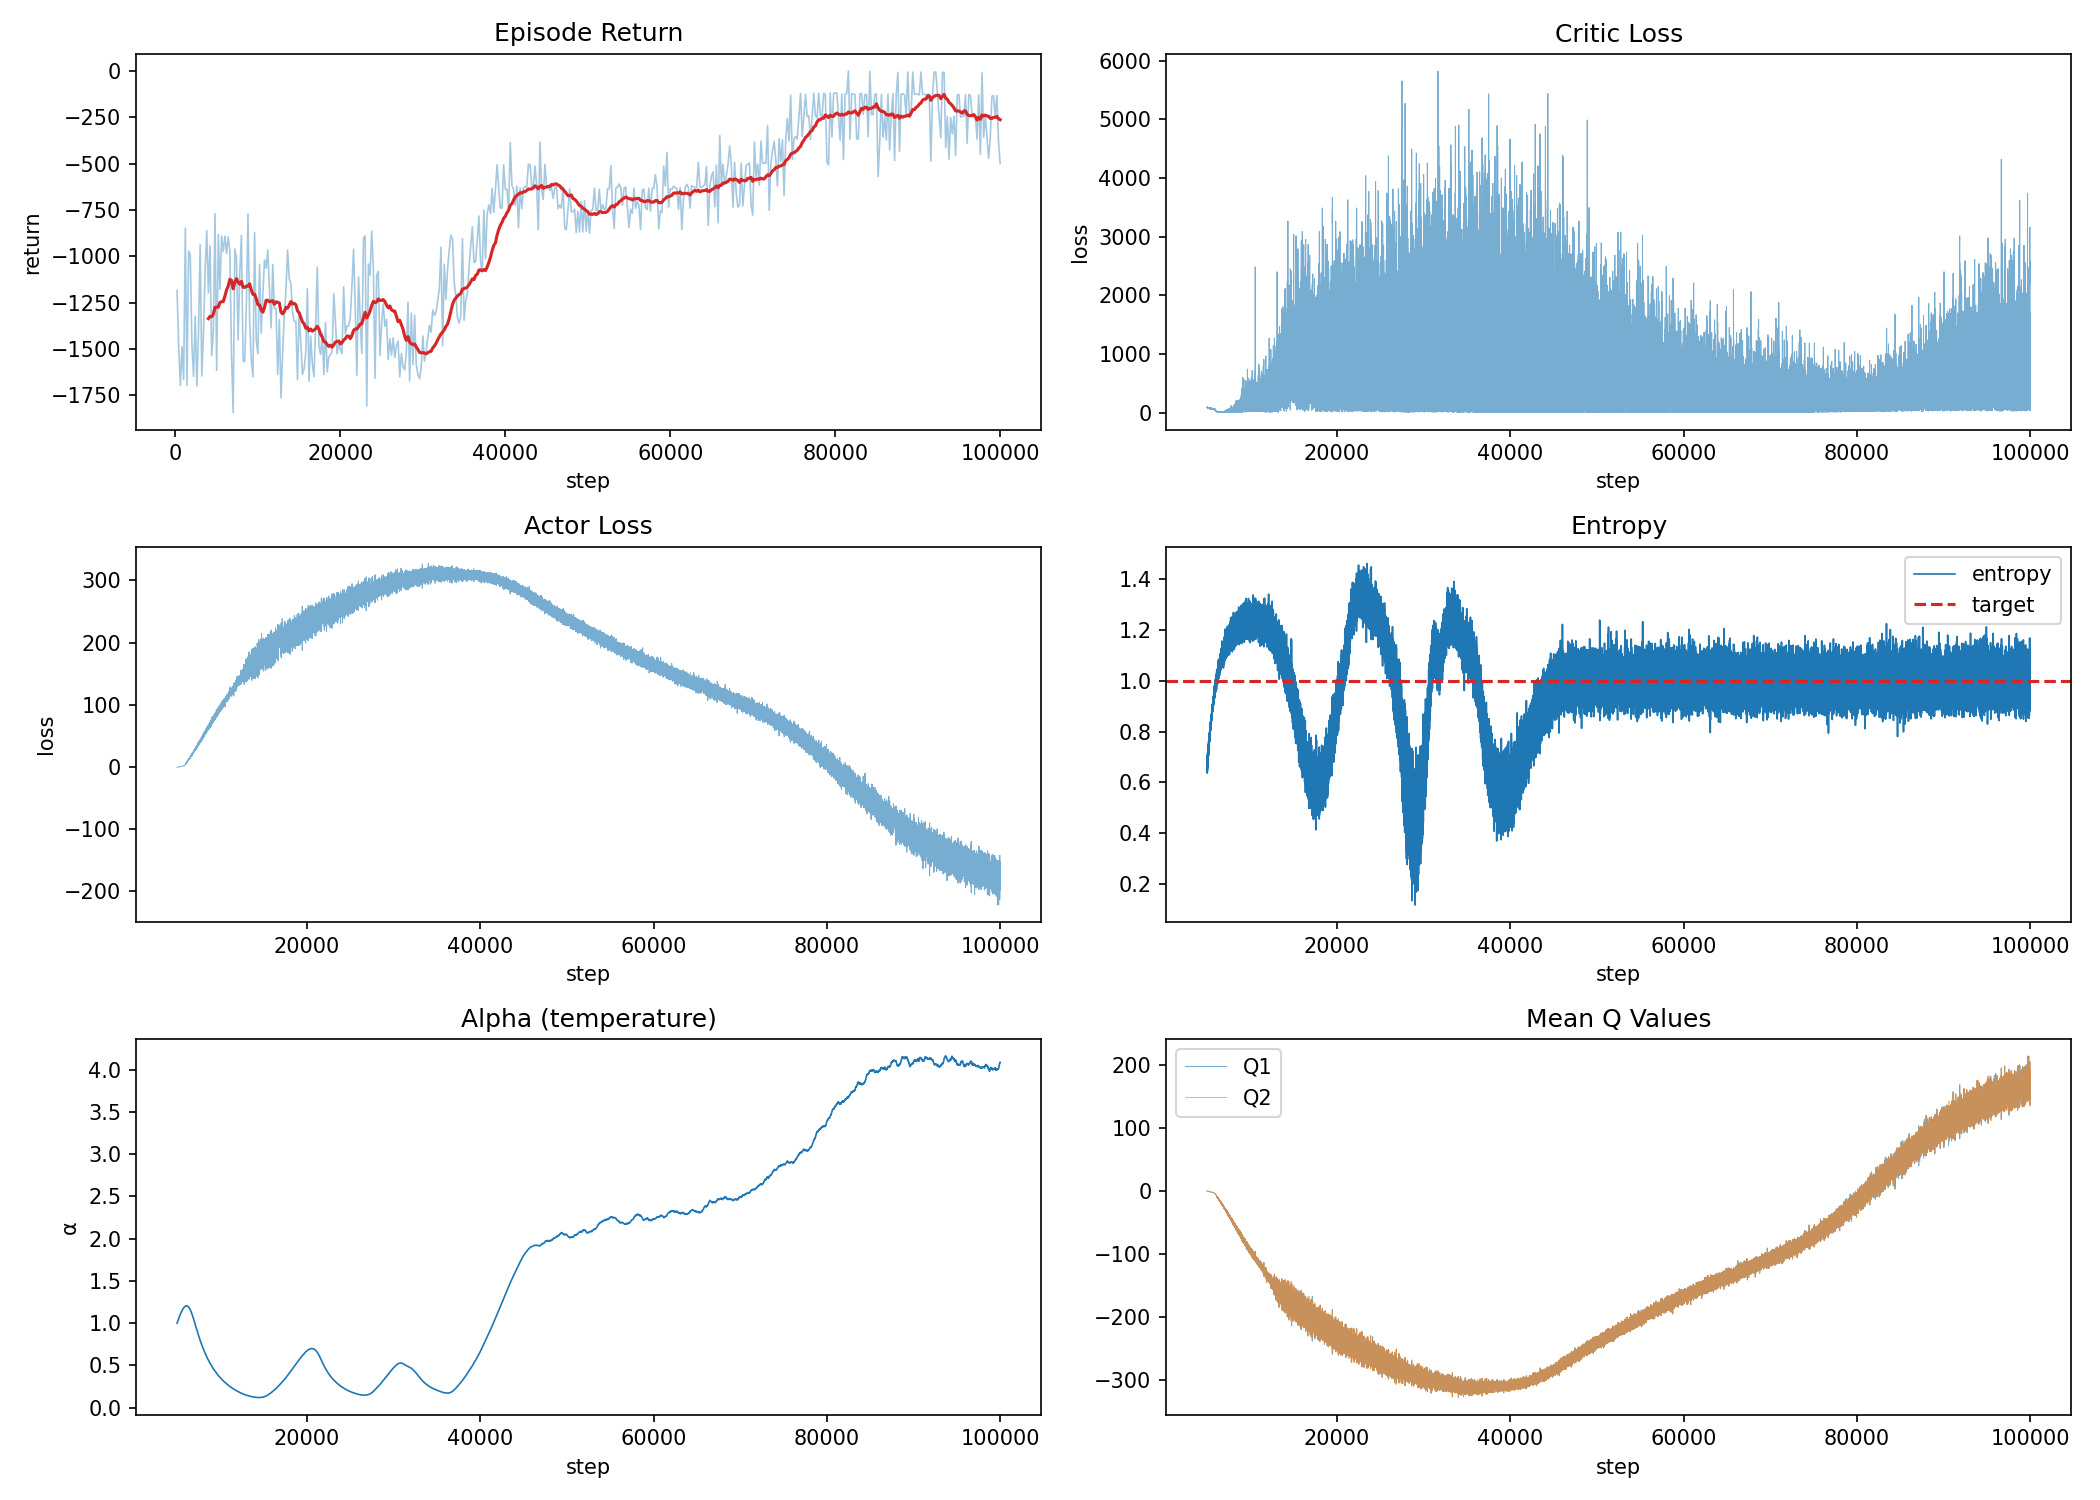
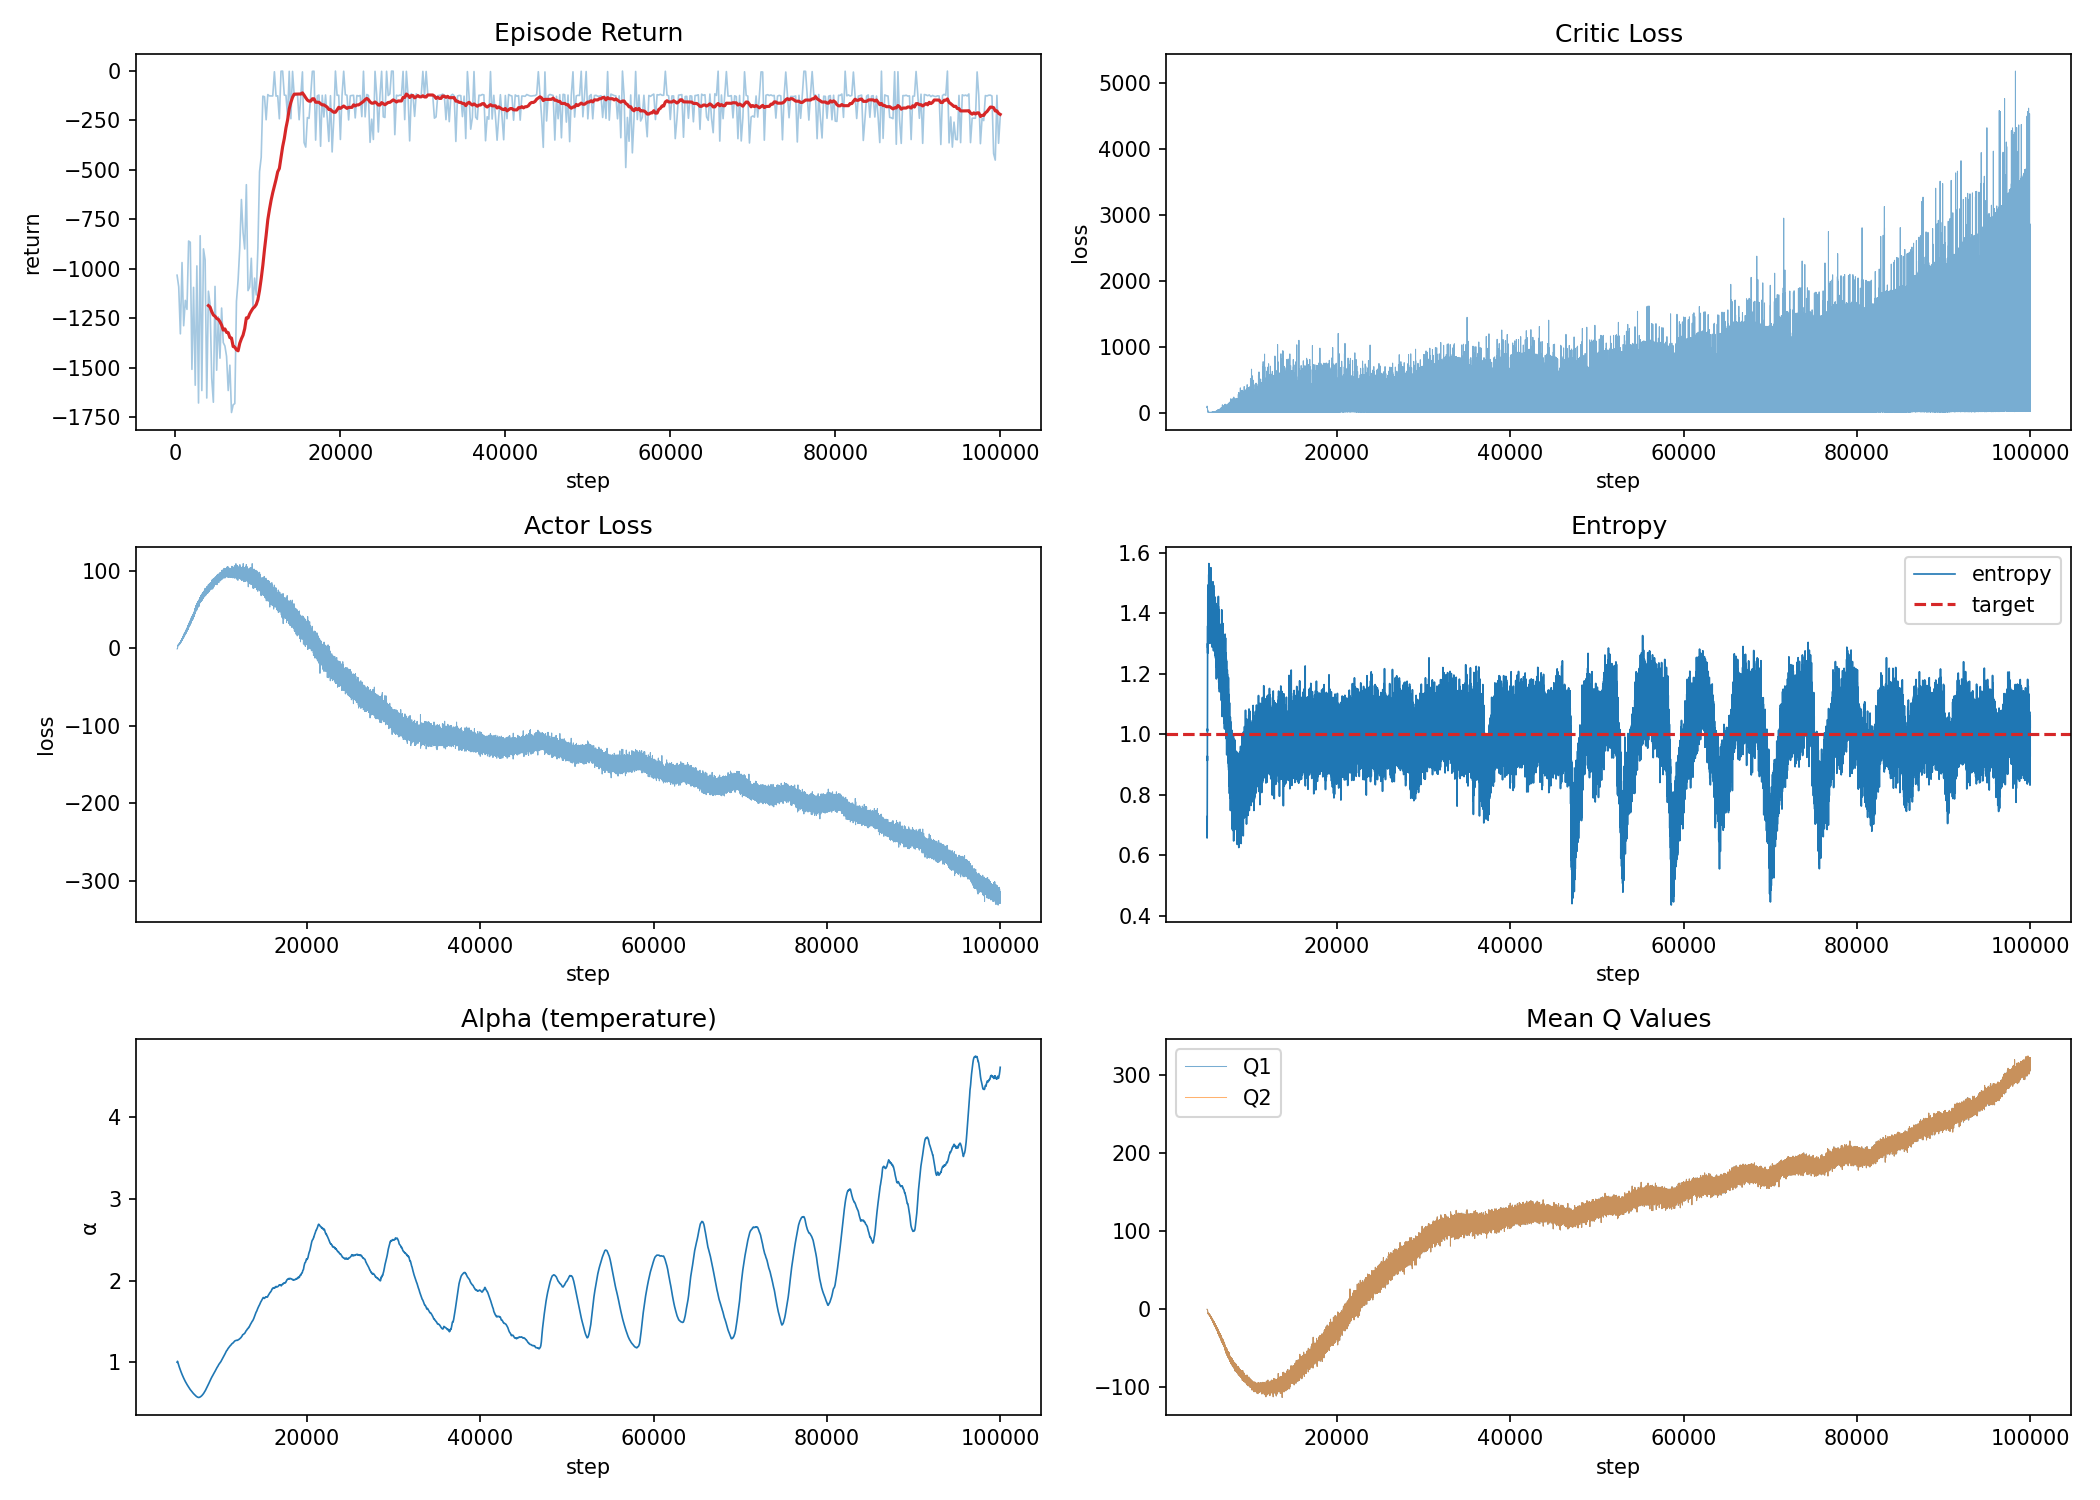
feat: Adam optimizer, smaller buffer and buffer fix

diff --git a/sac_assignment_jax.py b/sac_assignment_jax.py
@@ -22,11 +22,13 @@ Run individual sections with:
     python sac_assignment_jax.py --section all # full training loop
 """
 
+import functools
+
 import jax
 import jax.numpy as jnp
 import numpy as np
 import optax
-from typing import Tuple, Dict, Optional
+from typing import Any, Tuple, Dict, Optional
 import argparse
 
 from collections import deque
@@ -36,8 +38,6 @@ from collections import deque
 #   key = jax.random.PRNGKey(42)
 #   key, subkey = jax.random.split(key)
 #   samples = jax.random.normal(subkey, shape=(batch, dim))
-
-ROOT_KEY = jax.random.PRNGKey(42)
 
 
 # ==============================================================================
@@ -116,6 +116,7 @@ def policy_forward(
     return means, log_std
 
 
+@jax.jit
 def policy_sample(
     params: Dict,
     state: jax.Array,
@@ -391,34 +392,35 @@ def critic_loss_fn(
 
 
 
+@functools.partial(jax.jit, static_argnums=(8,))
 def critic_update(
     critic_params: Dict,
     target_critic_params: Dict,
     policy_params: Dict,
+    critic_opt_state,
     batch: Dict[str, jax.Array],
-    alpha: float,
-    gamma: float = 0.99,
-    lr: float = 3e-4,
-    key: jax.Array = jax.random.PRNGKey(0),
-) -> Tuple[Dict, Dict[str, float]]:
+    alpha: jax.Array,
+    gamma: float,
+    key: jax.Array,
+    optimizer: optax.GradientTransformation,
+) -> Tuple[Dict, Any, Dict[str, jax.Array]]:
     """
-    Compute gradients of critic_loss_fn wrt critic_params and apply SGD.
-
-    Use jax.value_and_grad(critic_loss_fn) — differentiate wrt first argument.
-    Update with: new_params = jax.tree.map(lambda p, g: p - lr * g, params, grads)
+    Compute gradients of critic_loss_fn wrt critic_params and apply an Adam step.
 
     Returns:
         new_critic_params: updated critic weights
+        new_critic_opt_state: updated optimizer state
         info dict with 'critic_loss', 'q1_mean', 'q2_mean'
     """
-    loss, grads = jax.value_and_grad(critic_loss_fn)(critic_params, target_critic_params, policy_params, batch, alpha, gamma, key)
-    #grads = jax.tree.map(lambda g: jnp.clip(g, -1.0, 1.0), grads)
-
-    new_params = jax.tree.map(lambda p, g: p - lr*g, critic_params, grads)
+    loss, grads = jax.value_and_grad(critic_loss_fn)(
+        critic_params, target_critic_params, policy_params, batch, alpha, gamma, key
+    )
+    updates, new_opt_state = optimizer.update(grads, critic_opt_state)
+    new_params = optax.apply_updates(critic_params, updates)
 
     q1, q2 = critic_forward(new_params, batch['states'], batch['actions'])
 
-    return new_params, {'critic_loss': loss, 'q1_mean': jnp.mean(q1), 'q2_mean': jnp.mean(q2)}
+    return new_params, new_opt_state, {'critic_loss': loss, 'q1_mean': jnp.mean(q1), 'q2_mean': jnp.mean(q2)}
 
 
 def actor_loss_fn(
@@ -434,26 +436,31 @@ def actor_loss_fn(
     return jnp.mean(alpha * log_probs - min_q), log_probs
 
 
+@functools.partial(jax.jit, static_argnums=(6,))
 def actor_update(
     policy_params: Dict,
     critic_params: Dict,
+    policy_opt_state,
     batch: Dict[str, jax.Array],
-    alpha: float,
-    lr: float = 3e-4,
-    key: jax.Array = jax.random.PRNGKey(0),
-) -> Tuple[Dict, jax.Array, Dict[str, float]]:
+    alpha: jax.Array,
+    key: jax.Array,
+    optimizer: optax.GradientTransformation,
+) -> Tuple[Dict, Any, jax.Array, Dict[str, jax.Array]]:
     """
-    Compute gradients of actor_loss_fn wrt policy_params and apply SGD.
+    Compute gradients of actor_loss_fn wrt policy_params and apply an Adam step.
 
     Returns:
-        new_policy_params: updated policy weights
-        log_probs:         (batch,) — needed for alpha update
+        new_policy_params:    updated policy weights
+        new_policy_opt_state: updated optimizer state
+        log_probs:            (batch,) — needed for alpha update
         info dict with 'actor_loss', 'entropy'
     """
-    (loss, log_probs), grads = jax.value_and_grad(actor_loss_fn, has_aux=True)(policy_params, critic_params, batch, alpha, key)
-    #grads = jax.tree.map(lambda g: jnp.clip(g, -1.0, 1.0), grads)
-    new_params = jax.tree.map(lambda p, g: p - lr*g, policy_params, grads)
-    return new_params, log_probs, {'actor_loss': loss, 'entropy': -jnp.mean(log_probs)}
+    (loss, log_probs), grads = jax.value_and_grad(actor_loss_fn, has_aux=True)(
+        policy_params, critic_params, batch, alpha, key
+    )
+    updates, new_opt_state = optimizer.update(grads, policy_opt_state)
+    new_params = optax.apply_updates(policy_params, updates)
+    return new_params, new_opt_state, log_probs, {'actor_loss': loss, 'entropy': -jnp.mean(log_probs)}
 
 
 '''def alpha_update(
@@ -493,18 +500,20 @@ def actor_update(
 
     return new_log_alpha, new_alpha, {'alpha_loss': alpha_loss, 'alpha': new_alpha}'''
 
+@functools.partial(jax.jit, static_argnums=(4,))
 def alpha_update(log_alpha, alpha_opt_state, log_probs, target_entropy, alpha_optimizer):
     def alpha_loss_fn(log_alpha):
-        return -log_alpha * (log_probs + target_entropy).mean()
+        return -log_alpha * jax.lax.stop_gradient(log_probs + target_entropy).mean()
 
     loss, grad = jax.value_and_grad(alpha_loss_fn)(log_alpha)
     updates, new_opt_state = alpha_optimizer.update(grad, alpha_opt_state)
     new_log_alpha = optax.apply_updates(log_alpha, updates)
-    new_alpha = float(jnp.exp(new_log_alpha))
+    new_alpha = jnp.exp(new_log_alpha)
 
-    return new_log_alpha, new_opt_state, new_alpha, {'alpha_loss': float(loss), 'alpha': new_alpha}
+    return new_log_alpha, new_opt_state, new_alpha, {'alpha_loss': loss, 'alpha': new_alpha}
 
 
+@jax.jit
 def soft_update(
     critic_params: Dict,
     target_critic_params: Dict,
@@ -591,20 +600,24 @@ def run_sanity_checks():
     print("=" * 60)
     log_alpha = jnp.array(0.0)
     target_entropy = float(action_dim)   # +2.0: entropy above this → decrease alpha
+    test_alpha_opt = optax.adam(3e-4)
+    test_alpha_state = test_alpha_opt.init(log_alpha)
 
     # Case 1: entropy too low (log_probs close to 0) → alpha should increase
     low_entropy_log_probs = jnp.full(batch_size, -0.1)   # entropy=0.1 < target=2.0
-    new_log_alpha, new_alpha, _ = alpha_update(log_alpha, low_entropy_log_probs, target_entropy)
-    assert new_alpha > float(jnp.exp(log_alpha)), \
-        f"Alpha should increase when entropy too low. Got {new_alpha:.4f} vs {float(jnp.exp(log_alpha)):.4f}"
-    print(f"  low entropy  -> alpha {float(jnp.exp(log_alpha)):.4f} -> {new_alpha:.4f}  (should increase)")
+    new_log_alpha, _, new_alpha, _ = alpha_update(
+        log_alpha, test_alpha_state, low_entropy_log_probs, target_entropy, test_alpha_opt)
+    assert float(new_alpha) > float(jnp.exp(log_alpha)), \
+        f"Alpha should increase when entropy too low. Got {float(new_alpha):.4f} vs {float(jnp.exp(log_alpha)):.4f}"
+    print(f"  low entropy  -> alpha {float(jnp.exp(log_alpha)):.4f} -> {float(new_alpha):.4f}  (should increase)")
 
     # Case 2: entropy too high (log_probs very negative) → alpha should decrease
     high_entropy_log_probs = jnp.full(batch_size, -10.0)  # entropy=10 > target=2.0
-    new_log_alpha, new_alpha, _ = alpha_update(log_alpha, high_entropy_log_probs, target_entropy)
-    assert new_alpha < float(jnp.exp(log_alpha)), \
-        f"Alpha should decrease when entropy too high. Got {new_alpha:.4f} vs {float(jnp.exp(log_alpha)):.4f}"
-    print(f"  high entropy -> alpha {float(jnp.exp(log_alpha)):.4f} -> {new_alpha:.4f}  (should decrease)")
+    new_log_alpha, _, new_alpha, _ = alpha_update(
+        log_alpha, test_alpha_state, high_entropy_log_probs, target_entropy, test_alpha_opt)
+    assert float(new_alpha) < float(jnp.exp(log_alpha)), \
+        f"Alpha should decrease when entropy too high. Got {float(new_alpha):.4f} vs {float(jnp.exp(log_alpha)):.4f}"
+    print(f"  high entropy -> alpha {float(jnp.exp(log_alpha)):.4f} -> {float(new_alpha):.4f}  (should decrease)")
     print("  PASSED\n")
 
     print("=" * 60)
@@ -619,13 +632,15 @@ def run_sanity_checks():
         'next_states': jnp.array(np.random.randn(batch_size, state_dim)),
         'masks':       jnp.zeros(batch_size),   # terminal → no bootstrap
     }
-    alpha = 0.2
+    alpha = jnp.array(0.2)
+    test_critic_opt = optax.adam(3e-4)
+    test_critic_opt_state = test_critic_opt.init(critic_params)
     q1_before, q2_before = critic_forward(critic_params, batch['states'], batch['actions'])
     for _ in range(50):
         key, update_key = jax.random.split(key)
-        critic_params, info = critic_update(
+        critic_params, test_critic_opt_state, info = critic_update(
             critic_params, target_critic_params, policy_params,
-            batch, alpha, key=update_key
+            test_critic_opt_state, batch, alpha, 0.99, update_key, test_critic_opt,
         )
     q1_after, q2_after = critic_forward(critic_params, batch['states'], batch['actions'])
     print(f"  q1 before: {q1_before.mean():.3f}, after: {q1_after.mean():.3f}  (should move toward 0)")
@@ -701,17 +716,20 @@ def train(
     target_critic_params = jax.tree.map(lambda x: x, critic_params)
 
     log_alpha = jnp.array(0.0)
-    alpha     = float(jnp.exp(log_alpha))
-    alpha_optimizer = optax.adam(lr)
-    alpha_opt_state = alpha_optimizer.init(log_alpha)
+    alpha     = jnp.exp(log_alpha)
+
+    critic_optimizer = optax.adam(lr)
+    actor_optimizer  = optax.adam(lr)
+    alpha_optimizer  = optax.adam(lr)
+
+    critic_opt_state = critic_optimizer.init(critic_params)
+    policy_opt_state = actor_optimizer.init(policy_params)
+    alpha_opt_state  = alpha_optimizer.init(log_alpha)
 
     state, _ = env.reset()
     episode_return = 0.0
 
     episodic_returns = deque(maxlen=20)
-
-
-    after = sum(jnp.sum(p**2) for p in jax.tree.leaves(policy_params))
 
     for step in range(num_steps):
 
@@ -739,39 +757,21 @@ def train(
 
         # --- Update ---
         if step >= warmup_steps and len(buffer) >= batch_size:
-
-            # 2. Check if the policy is actually changing over time
-            # Log the mean and std of actions sampled at a fixed state
-            test_state = jnp.zeros((1, state_dim))
-            key, k = jax.random.split(key)
-            test_actions, _ = policy_sample(policy_params, test_state, k)
-            #print(f"test action: {float(test_actions[0,0]):.4f}")
-
             batch = buffer.sample(batch_size)
-
-            # Are states and next_states different?
-            #print(f"state: {batch['states'][0]}")
-            #print(f"next_state: {batch['next_states'][0]}")
-            #print(f"reward: {batch['rewards'][0]}")
-            #print(f"mask: {batch['masks'][0]}")
-
-            #print(f"reward range in buffer: {batch['rewards'].min():.2f} to {batch['rewards'].max():.2f}")
 
             # 1. Critic
             key, ck = jax.random.split(key)
-            critic_params, critic_info = critic_update(
+            critic_params, critic_opt_state, critic_info = critic_update(
                 critic_params, target_critic_params, policy_params,
-                batch, alpha, gamma, lr, key=ck
+                critic_opt_state, batch, alpha, gamma, ck, critic_optimizer,
             )
 
             # 2. Actor
-            before = sum(jnp.sum(p**2) for p in jax.tree.leaves(policy_params))
             key, ak = jax.random.split(key)
-            policy_params, log_probs, actor_info = actor_update(
-                policy_params, critic_params, batch, alpha, lr, key=ak
+            policy_params, policy_opt_state, log_probs, actor_info = actor_update(
+                policy_params, critic_params,
+                policy_opt_state, batch, alpha, ak, actor_optimizer,
             )
-            # after = sum(jnp.sum(p**2) for p in jax.tree.leaves(policy_params))
-            # print(f"policy param norm change: {float(after - before):.6f}")
 
             # 3. Alpha
             log_alpha, alpha_opt_state, alpha, alpha_info = alpha_update(
@@ -783,17 +783,18 @@ def train(
 
             # --- Logging ---
             if step % log_interval == 0:
+                param_norm = sum(float(jnp.sum(p**2)) for p in jax.tree.leaves(policy_params))
                 print(
                     f"step {step:7d} | "
-                    f"critic_loss {critic_info['critic_loss']:.4f} | "
-                    f"actor_loss {actor_info['actor_loss']:.4f} | "
-                    f"entropy {actor_info['entropy']:.4f} | "
-                    f"alpha {alpha_info['alpha']:.4f} | "
+                    f"critic_loss {float(critic_info['critic_loss']):.4f} | "
+                    f"actor_loss {float(actor_info['actor_loss']):.4f} | "
+                    f"entropy {float(actor_info['entropy']):.4f} | "
+                    f"alpha {float(alpha_info['alpha']):.4f} | "
                     f"episodic returns {np.mean(np.array(episodic_returns))}  | "
-                    f"q1_vals: {critic_info['q1_mean']} q2_vals: {critic_info['q2_mean']}"
+                    f"q1_vals: {float(critic_info['q1_mean']):.4f} "
+                    f"q2_vals: {float(critic_info['q2_mean']):.4f} | "
+                    f"policy_norm {param_norm:.4f}"
                 )
-                after = sum(jnp.sum(p**2) for p in jax.tree.leaves(policy_params))
-                print(f"policy param norm change: {float(after - before):.6f}")
 
 # ==============================================================================
 # STRETCH GOALS (implement after the above is working)

diff --git a/debug_sac.py b/debug_sac.py
@@ -50,8 +50,14 @@ def train_and_plot(
     buffer = ReplayBuffer(state_dim, action_dim)
 
     log_alpha = jnp.array(0.0)
-    alpha = float(jnp.exp(log_alpha))
+    alpha = jnp.exp(log_alpha)
+
+    critic_optimizer = optax.adam(lr)
+    actor_optimizer = optax.adam(lr)
     alpha_optimizer = optax.adam(lr)
+
+    critic_opt_state = critic_optimizer.init(critic_params)
+    policy_opt_state = actor_optimizer.init(policy_params)
     alpha_opt_state = alpha_optimizer.init(log_alpha)
 
     state, _ = env.reset()
@@ -100,14 +106,15 @@ def train_and_plot(
             batch = buffer.sample(batch_size)
 
             key, ck_ = jax.random.split(key)
-            critic_params, critic_info = critic_update(
+            critic_params, critic_opt_state, critic_info = critic_update(
                 critic_params, target_critic_params, policy_params,
-                batch, alpha, gamma, lr, key=ck_,
+                critic_opt_state, batch, alpha, gamma, ck_, critic_optimizer,
             )
 
             key, ak_ = jax.random.split(key)
-            policy_params, log_probs, actor_info = actor_update(
-                policy_params, critic_params, batch, alpha, lr, key=ak_,
+            policy_params, policy_opt_state, log_probs, actor_info = actor_update(
+                policy_params, critic_params,
+                policy_opt_state, batch, alpha, ak_, actor_optimizer,
             )
 
             log_alpha, alpha_opt_state, alpha, alpha_info = alpha_update(
